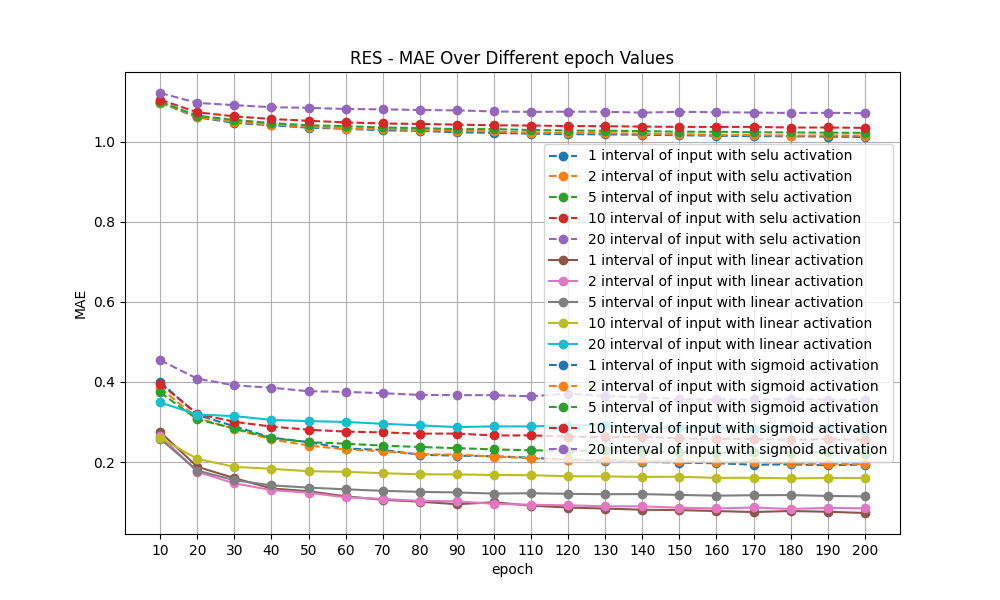
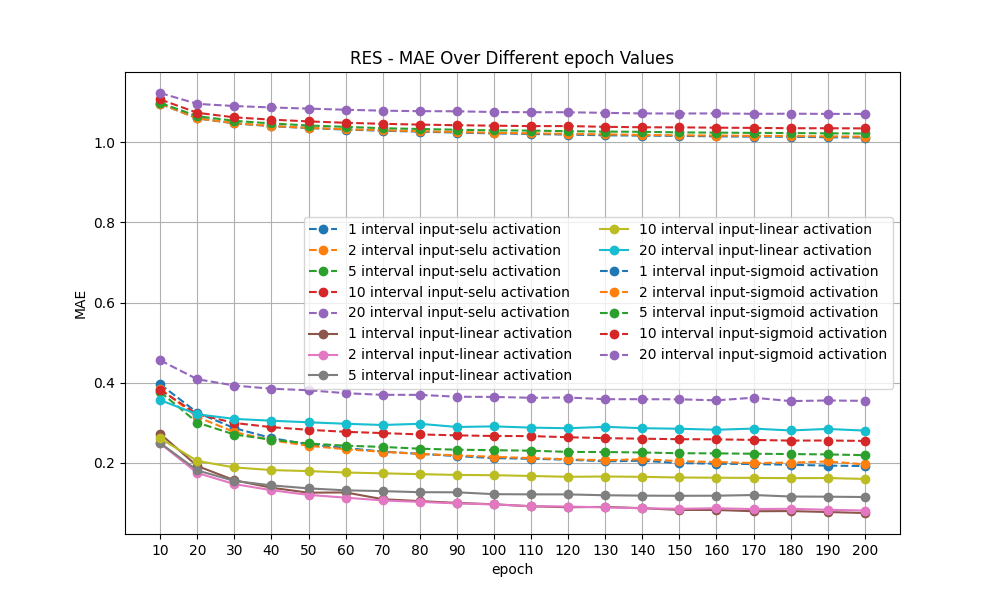
legend

Changed region(s): [[0.093, 0.15, 0.899, 0.87], [0.093, 0.36, 0.124, 0.39]]

diff --git a/main.py b/main.py
@@ -11,7 +11,7 @@ from tools.utils import read_dataset, test_knn, draw, test_rf, test_res, test_nn
 
 if __name__ == '__main__':
     input_interval = [1, 2, 5, 10, 20]
-    algorithms = ['NN']
+    algorithms = ['RES']
     matrices = ['MSE', 'MAE', 'R2']
     parameters = ['selu', 'linear', 'sigmoid']
     result = {}
@@ -32,24 +32,24 @@ if __name__ == '__main__':
     print(result)
     for n in input_interval:
         X, y = read_dataset(n)
-        knn_mse, knn_mae, knn_r2 = test_knn(X, y, n)
+        """knn_mse, knn_mae, knn_r2 = test_knn(X, y, n)
         result['KNN']['MSE'][n] = knn_mse
         result['KNN']['MAE'][n] = knn_mae
         result['KNN']['R2'][n] = knn_r2
         rf_mse, rf_mae, rf_r2 = test_rf(X, y, n)
         result['RF']['MSE'][n] = rf_mse
         result['RF']['MAE'][n] = rf_mae
-        result['RF']['R2'][n] = rf_r2
+        result['RF']['R2'][n] = rf_r2"""
         for activate in parameters:
             res_mse, res_mae, res_r2 = test_res(X, y, n, activate)
             result['RES'][activate]['MSE'][n] = res_mse
             result['RES'][activate]["MAE"][n] = res_mae
             result['RES'][activate]["R2"][n] = res_r2
-        for activate in parameters:
+        """for activate in parameters:
             res_mse, res_mae, res_r2 = test_nn(X, y, n, activate)
             result['NN'][activate]['MSE'][n] = res_mse
             result['NN'][activate]["MAE"][n] = res_mae
-            result['NN'][activate]["R2"][n] = res_r2
+            result['NN'][activate]["R2"][n] = res_r2"""
 
 
     # print(result)

diff --git a/tools/utils.py b/tools/utils.py
@@ -147,10 +147,10 @@ def test_res(X, y, interval, activate):
     output_dim = y_train.shape[1]
     epochs_list = range(10, 210, 10)
 
+    model = build_res_model(input_dim, output_dim, activate)
     for epochs in epochs_list:
-        model = build_res_model(input_dim, output_dim, activate)
 
-        model.fit(X_train, y_train, epochs=epochs, batch_size=1024, verbose=0)
+        model.fit(X_train, y_train, epochs=10, batch_size=1024, verbose=0)
 
         y_pred = model.predict(X_test)
 
@@ -198,11 +198,11 @@ def test_nn(X, y, interval, activate):
     input_dim = X_train.shape[1]
     output_dim = y_train.shape[1]
     epochs_list = range(10, 210, 10)
+    model = build_nn_model(input_dim, output_dim, activate)
 
     for epochs in epochs_list:
-        model = build_nn_model(input_dim, output_dim, activate)
 
-        model.fit(X_train, y_train, epochs=epochs, batch_size=1024, verbose=0)
+        model.fit(X_train, y_train, epochs=10, batch_size=1024, verbose=0)
 
         y_pred = model.predict(X_test)
 
@@ -276,7 +276,7 @@ def draw(data, algorithm, matrix):
         plt.xticks(range(10, 210, 10))
         plt.legend(ncol=2)
         plt.grid(True)
-        plt.savefig(f'result/fig/{algorithm}/{algorithm}-{matrix}.png')
+        plt.savefig(f'result/fig/nn/{algorithm}-{matrix}.png')
         plt.show()
 
 
